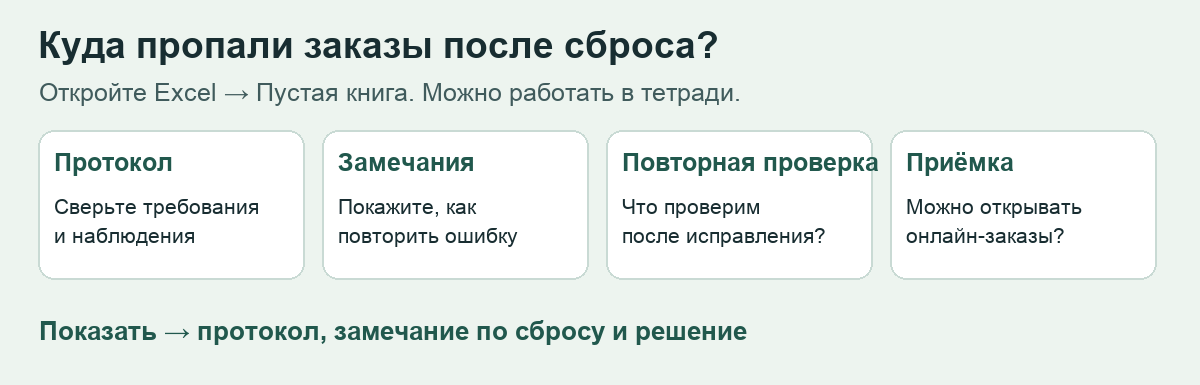
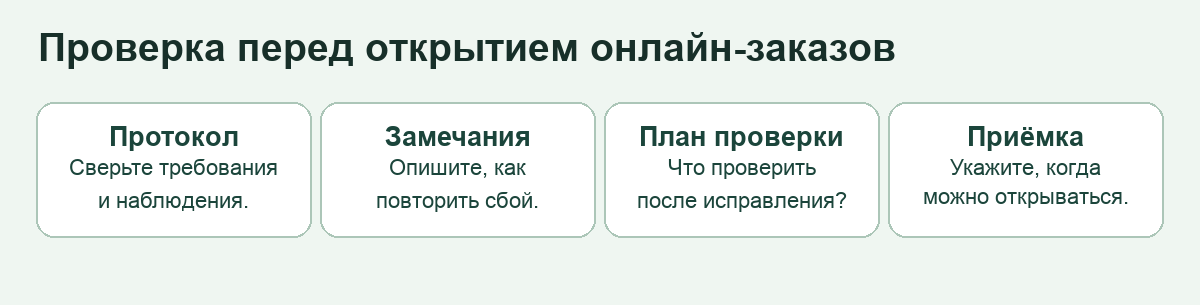
Remove repeated tasks and stale lesson assets

diff --git a/Управление качеством.md b/Управление качеством.md
@@ -78,7 +78,7 @@
 
 ![Маршрут практической работы](Схемы/маршрут-качество.png)
 
-До запуска онлайн-заказов осталась одна смена. Фильтр по статусу уже добавили. Кассир нажал «Сбросить», но часть заказов так и не появилась. Вы разбираете результаты пробного запуска и готовите заключение для управляющего.
+Пиццерия проверяет обновлённую бета-версию перед открытием онлайн-заказов. Фильтр у кассира уже есть. Кассир нажал «Сбросить», но часть заказов не вернулась в список. Разберите протокол и решите, что нужно подтвердить до открытия. Все данные для работы есть на этой странице.
 
 **Два варианта списка заказов после сброса.** В обоих случаях в поле фильтра указано «Все статусы».
 
@@ -91,7 +91,7 @@
 
 Прочерк означает, что заказ отсутствует в списке.
 
-**Оформление.** Откройте **Excel → Создать → Пустая книга**. Создайте листы **«Проверки», «Замечания», «Приёмка»**. Перенесите заголовки из таблиц под соответствующими этапами. Если Excel нет, оформите эти три раздела в тетради. Программа условная. Все наблюдения есть в протоколе ниже. Под каждой таблицей есть заполненный пример про **кинотеатр**. Возьмите из него способ заполнения, а данные для своей таблицы — из условий про пиццерию.
+**Оформление.** Откройте **Excel → Создать → Пустая книга**. Создайте листы **«Проверки», «Замечания», «Приёмка»**. Перенесите заголовки из таблиц под соответствующими этапами. Если Excel нет, оформите эти три раздела в тетради. Программа условная. Все наблюдения есть в протоколе ниже. Под таблицами есть примеры про кинотеатр. Заполняйте свои таблицы по данным пиццерии.
 
 ### Как должен работать сайт
 
@@ -156,15 +156,15 @@
 | --- | --- | --- | --- | --- | --- | --- | --- |
 | После переноса в билете осталось старое время | К1 | Зритель | Билет на фильм «Орбита» на 18:00. Есть сеанс на 20:00. | Открыть билет, перенести на 20:00 и снова открыть билет. | В билете 20:00. | В билете 18:00. | Зритель может прийти к старому сеансу. |
 
-В своей работе берите для замечаний строки с выводом **«расхождение»**. Если проверку пока не удалось выполнить, запишите отдельно, что нужно для повторной попытки.
+В таблицу замечаний перенесите только строки с выводом **«расхождение»**.
 
 ### Этап 3. Спланируйте повторную проверку
 
 Разработчик сообщил: «Исправили сброс. Список заново загружается при нажатии кнопки. Имя для выдачи пока не исправили».
 
-В таблице «Повторные проверки» укажите конкретные заказы, которые должны появиться на экране.
+В таблице «Повторные проверки» запишите ожидаемый результат. Для списка назовите заказы, которые должны появиться на экране.
 
-| Проверка | Исходные данные | Действие | Ожидаемый состав списка |
+| Проверка | Исходные данные | Действие | Ожидаемый результат |
 | --- | --- | --- | --- |
 | Сброс фильтра | | | |
 | Повторный выбор статуса | | | |
@@ -179,7 +179,7 @@
 
 **Пример повторной проверки из кинотеатра.** Разработчик написал: «Исправили обновление времени в билете». Теперь нужно повторить действие из замечания.
 
-| Проверка | Исходные данные | Действие | Ожидаемый состав списка |
+| Проверка | Исходные данные | Действие | Ожидаемый результат |
 | --- | --- | --- | --- |
 | Отображение времени после переноса | Билет на 18:00, доступен сеанс на 20:00. | Перенести на 20:00, открыть список билетов. | В списке билет на 20:00. Старого билета на 18:00 нет. |
 
@@ -187,7 +187,7 @@
 | --- | --- |
 | После переноса в билете остаётся старое время. | Открыть сам билет из списка и сверить время. Должно быть 20:00. |
 
-В пиццерии используйте тот же порядок: найдите, что разработчик исправил, и запишите действие и ожидаемый результат. До повторного запуска это **план проверки**.
+Записывайте ожидаемый результат. О повторном запуске пиццерии данных пока нет.
 
 ### Этап 4. Решите, можно ли открываться
 
@@ -211,17 +211,6 @@
 
 **Покажите на месте** схему из конспекта, протокол, замечание по сбросу и заключение о запуске.
 
-## Самостоятельное задание. Найдите причину жалобы
-
-Придумайте свой сервис и одну понятную неисправность. Например, приложение велопроката показывает, что велосипед свободен, хотя его уже забронировали. Выберите другую ситуацию и составьте материалы, по которым другой человек сможет проверить вашу версию.
-
-1. **Задайте правило.** Опишите, кто пользуется сервисом и как должна работать выбранная функция. Укажите конкретный пример данных: название, номер, время или действие пользователя.
-2. **Напишите жалобу.** От лица пользователя в двух-трёх фразах сообщите, что вы сделали и что увидели. Затем запишите, какой важной детали не хватает, чтобы повторить ситуацию.
-3. **Предложите две возможные причины.** Для каждой объясните, какие наблюдения заставили бы вас её рассмотреть. Составьте одну проверку, которая поможет различить причины, и запишите ожидаемый результат для каждой из них.
-4. **Примите решение.** Придумайте результат проверки и на его основе решите, можно ли выпускать сервис. Объясните, что ещё понадобится проверить, прежде чем подтвердить исправление.
-
-**Что показать.** Один отдельный лист Excel или одну страницу тетради с жалобой, двумя возможными причинами, проверкой и итоговым решением.
-
 ## Командная работа на Python
 
-Для этой работы выберите новую тему. Откройте [инструкцию и стартовую программу](Командная%20работа%20на%20Python.md). Команда придумает пять функций, разберёт риски и проверки и напишет код для одной функции.
+После работы с готовым протоколом можно перейти к своей программе. В [отдельной практике по Python](Командная%20работа%20на%20Python.md) вы добавите функцию и сами получите результаты проверок.

diff --git a/Командная работа на Python.md b/Командная работа на Python.md
@@ -1,6 +1,6 @@
 # Командная работа на Python
 
-У вас уже есть небольшая программа со списком записей. Выберите для неё **новую тему**. Например, это может быть список настольных игр, каталог комиксов или очередь треков для вечеринки. Определите, кто пользуется программой и что означает одна запись. Для каталога комиксов запись — это название комикса.
+Скачайте готовую программу для списка записей. Выберите для неё **новую тему**. Например, это может быть список настольных игр, каталог комиксов или очередь треков для вечеринки. Определите, кто пользуется программой и что означает одна запись. Для каталога комиксов запись — это название комикса.
 
 ## 1. Откройте готовую программу
 
@@ -8,11 +8,11 @@
 2. В VS Code откройте эту папку через **Файл → Открыть папку**. Откройте **Терминал → Создать терминал** и выполните команду `python main.py`. Если Windows не находит команду `python`, попробуйте `py main.py`. Если доступна команда **Python: Run Python File in Terminal**, можно запустить через неё, выбрав установленный интерпретатор.
 3. Добавьте запись, выведите список и завершите программу. При новом запуске список пуст. Записи пока хранятся только во время работы программы.
 
-Если ни один запуск не сработал, продолжайте обсуждение и оформление в тетради. Код можно написать в VS Code и запустить на компьютере другого участника. Результат, который вы ещё не получили, запишите как ожидаемый.
+Если Python не запускается, напишите код в редакторе и попробуйте запустить его на компьютере другого участника. Если запустить негде, запишите для каждой проверки ожидаемый результат и отметьте «Не запускали».
 
 ## 2. Придумайте пять функций
 
-Запишите в тетради название проекта и пять идей команды. Для каждой напишите, что получит пользователь, что может пойти не так и как это проверить. Риск — это конкретная проблема, например пользователь вводит номер записи, которой нет, и программа должна продолжить работу.
+Запишите в тетради название проекта и пять идей команды. Для каждой напишите, что получит пользователь, что может пойти не так и как это проверить. Например, при удалении пользователь может ввести номер несуществующей записи. Проверьте, что программа сообщает об ошибке и оставляет список прежним.
 
 **Пример для каталога комиксов**
 
@@ -20,18 +20,18 @@
 | --- | --- | --- | --- |
 | Поиск по части названия | Найдёт «Лунный город», введя «лун». | Поиск может пропустить название из-за заглавной буквы. | Добавим «Лунный город», введём «лун» и проверим, что запись найдена. |
 
-Теперь составьте такую же таблицу для своей темы. Можно менять способ поиска, порядок вывода, добавление или редактирование записей. Для каждой идеи придумайте свою проверку.
+Перенесите эти заголовки в тетрадь и заполните таблицу своими идеями.
 
 ## 3. Напишите одну функцию вручную
 
 Выберите из таблицы функцию, которая полезна пользователю и которую вы можете объяснить на базовом Python. Запишите, почему взяли её первой. Остальные четыре остаются в плане команды.
 
-Распределите работу. Один участник пишет код, другой читает его вместе с ним и помогает разобраться, остальные готовят проверки. Если закончили, поменяйтесь и дайте другому участнику попробовать следующую функцию.
+Распределите работу. Один участник пишет код, другой читает его вместе с ним и помогает разобраться, остальные готовят проверки. Перед запуском каждый участник должен уметь объяснить добавленный пункт меню.
 
-Добавьте в меню новый пункт и обработайте его в коде. Используйте знакомые конструкции: список, `input()`, `if`, `for`. Напишите код сами. Если забыли синтаксис, посмотрите в конспекте или попросите объяснить отдельную команду. Каждый должен понимать, как работает добавленный пункт меню.
+Добавьте в меню новый пункт и обработайте его в коде. Используйте знакомые конструкции: список, `input()`, `if`, `for`. Напишите код сами. Если забыли синтаксис, посмотрите в конспекте или попросите объяснить отдельную команду. Сохраните файл перед запуском.
 
 ## 4. Проверьте результат
 
-Запустите программу. Проверьте новую функцию в обычной ситуации и в случае из вашей графы «Что может пойти не так». Затем убедитесь, что можно по-прежнему добавить и показать запись. Для каждой проверки запишите в тетради **действие, что ожидали и что получилось**. Если нашли проблему, попробуйте её исправить и повторите ту же проверку.
+Используйте проверку, которую уже записали для выбранной функции. Затем проверьте обычное использование и убедитесь, что старые пункты меню по-прежнему добавляют и показывают записи. Для каждой проверки запишите в тетради **действие, что ожидали и что получилось**. Если нашли проблему, попробуйте её исправить и повторите ту же проверку.
 
 В конце покажите таблицу с пятью идеями в тетради и продемонстрируйте один запуск с новой функцией. Если запустить не удалось, покажите код и объясните, как проверите его на компьютере с Python.

diff --git a/Управление изменениями.md b/Управление изменениями.md
@@ -123,7 +123,7 @@
 
 ### 1. Возьмите готовую тему
 
-**Пиццерия.** В пятницу пиццерия откроет онлайн-заказы для всех. Накануне команда дала кассиру и нескольким покупателям попробовать сайт. Один покупатель оформил пробный заказ и заметил, что имя для выдачи исчезло. Кассир посмотрел список пробных заказов и попросил фильтр. Теперь команде нужно решить, что исправить до пятницы, а что можно добавить позже.
+**Пиццерия.** В пятницу пиццерия откроет онлайн-заказы для всех. Накануне кассиру и нескольким покупателям дали доступ к бета-версии. Они сделали пробные заказы и прислали замечания.
 
 Сайт должен сохранять имя для выдачи. Покупатель видит только свои заказы, кассир — все. Вот три сообщения, с которых можно начать:
 
@@ -137,7 +137,7 @@
 
 1. В верхнюю строку таблицы в тетради перенесите **пять названий столбцов** — от «Проект» до «Что сделать первым».
 2. Посмотрите, как разобрано сообщение кассира. Строка с кассиром ниже — готовый пример.
-3. Если выбрали пиццерию, начните свои записи с сообщения **покупателя**. Следующей строкой разберите сообщение **управляющего**. После них добавьте сообщения, которые придумали сами.
+3. Если выбрали пиццерию, начните свои записи с сообщения **покупателя**. Следующей строкой разберите сообщение **управляющего**.
 4. Если выбрали свой проект, сразу начните с первого сообщения про него.
 
 **Образец заполнения**
@@ -146,11 +146,7 @@
 | --- | --- | --- | --- | --- |
 | Пиццерия | Кассир | Хочу видеть только заказы со статусом «Готовится». | Хотят добавить | Уточнить, на каком экране кассиру нужен фильтр. |
 
-В столбце **«Что это?»** выберите одну из трёх фраз:
-
-- **Хотят добавить.** Этого ещё не обещали. Например, кассир просит новый фильтр.
-- **Что-то не работает.** Это уже должно работать. Например, сайт должен сохранить имя, но оно пропало.
-- **Нужно уточнить.** Нужно выяснить или записать условие. Например, управляющий говорит, кому должен быть доступен фильтр.
+В столбце **«Что это?»** используйте [три варианта из примера про подкаст](#рассмотрим-пример-ситуации-подкаст-выходит-в-эфир). Если спорите, сверяйтесь с тем, что сервис должен был уметь по условию.
 
 В последнем столбце пишите **одно действие, с которого начнёте**. Например: «Оформить пробный заказ с именем “Саша”, открыть его снова и проверить, видно ли имя». Ваша задача — описать проверку. Запускать сайт для этого не нужно.
 
@@ -180,8 +176,8 @@
 
 1. Напишите название проекта и какую функцию выбрали.
 2. Нарисуйте, что делает человек и что видит в результате. Подойдут два маленьких рисунка со стрелкой между ними.
-3. Под рисунком напишите, добавили бы вы функцию к открытию или позже, и почему.
+3. Покажите рисунок соседу. Пусть он объяснит, куда нажать и что увидит пользователь. Если он запутался, поправьте одну подпись.
 
-**Пример.** В пиццерии выбрали фильтр «Готовится». На первом рисунке кассир видит пять заказов и нажимает «Готовится». На втором остались только заказы, которые сейчас готовят. Под рисунком: «Добавим позже, если к открытию ещё не проверили сброс фильтра».
+**Пример.** В пиццерии выбрали фильтр «Готовится». На первом рисунке кассир видит пять заказов и нажимает «Готовится». На втором остались только заказы, которые сейчас готовят. Под вторым рисунком можно подписать «Показаны только заказы со статусом “Готовится”».
 
-**Что показать.** Рисунок и одно предложение с вашим решением.
+**Что показать.** Два рисунка, по которым понятно, что пользователь делает и что появляется на экране.

diff --git a/README.md b/README.md
@@ -1,7 +1,5 @@
 # Проектный менеджмент
 
-Откройте нужное занятие:
-
-- [Управление изменениями](Управление%20изменениями.md)
-- [Управление качеством](Управление%20качеством.md)
-- [Командная работа на Python](Командная%20работа%20на%20Python.md)
+1. [Управление изменениями](Управление%20изменениями.md) — разберите обращения и выберите, что сделать до запуска.
+2. [Управление качеством](Управление%20качеством.md) — по итогам пробного запуска разберите ошибки и подготовьте повторную проверку.
+3. [Командная работа на Python](Командная%20работа%20на%20Python.md) — придумайте пять функций для нового проекта, напишите и проверьте одну из них.
